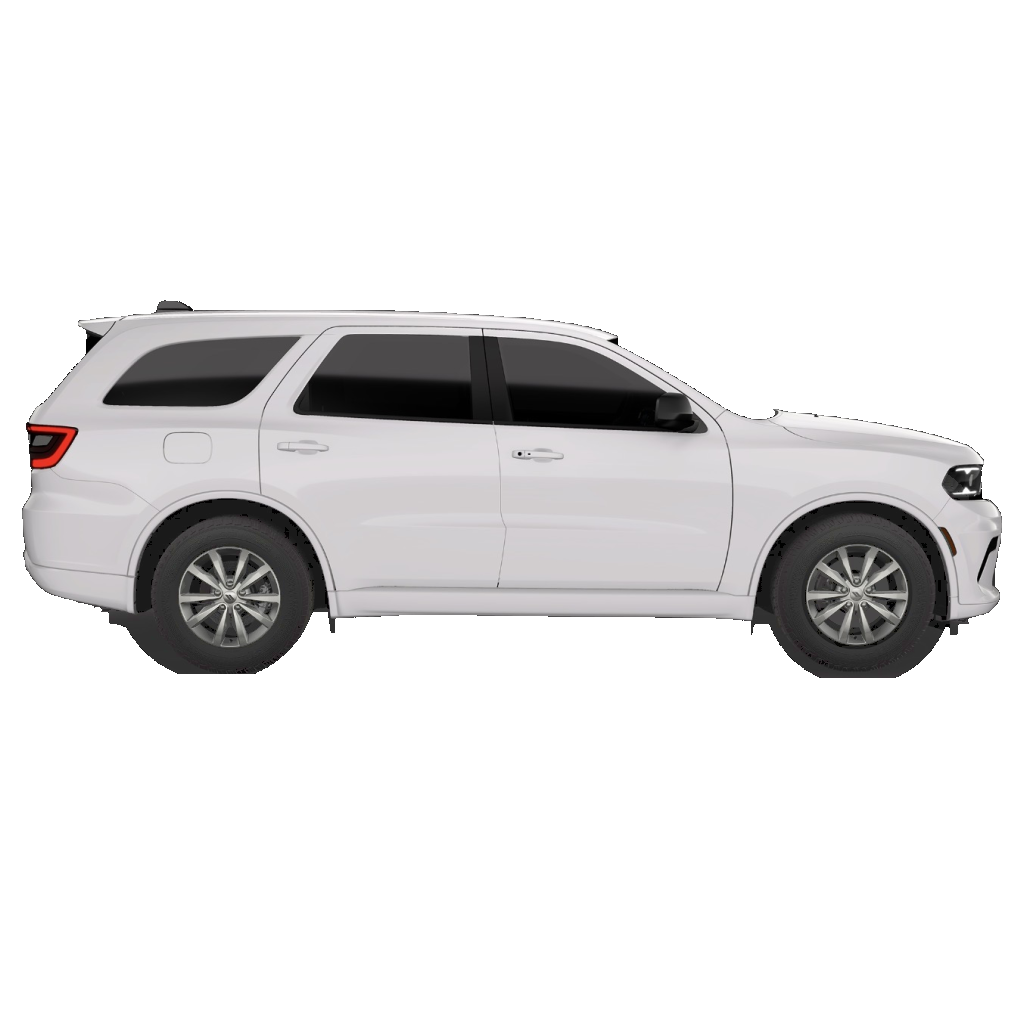
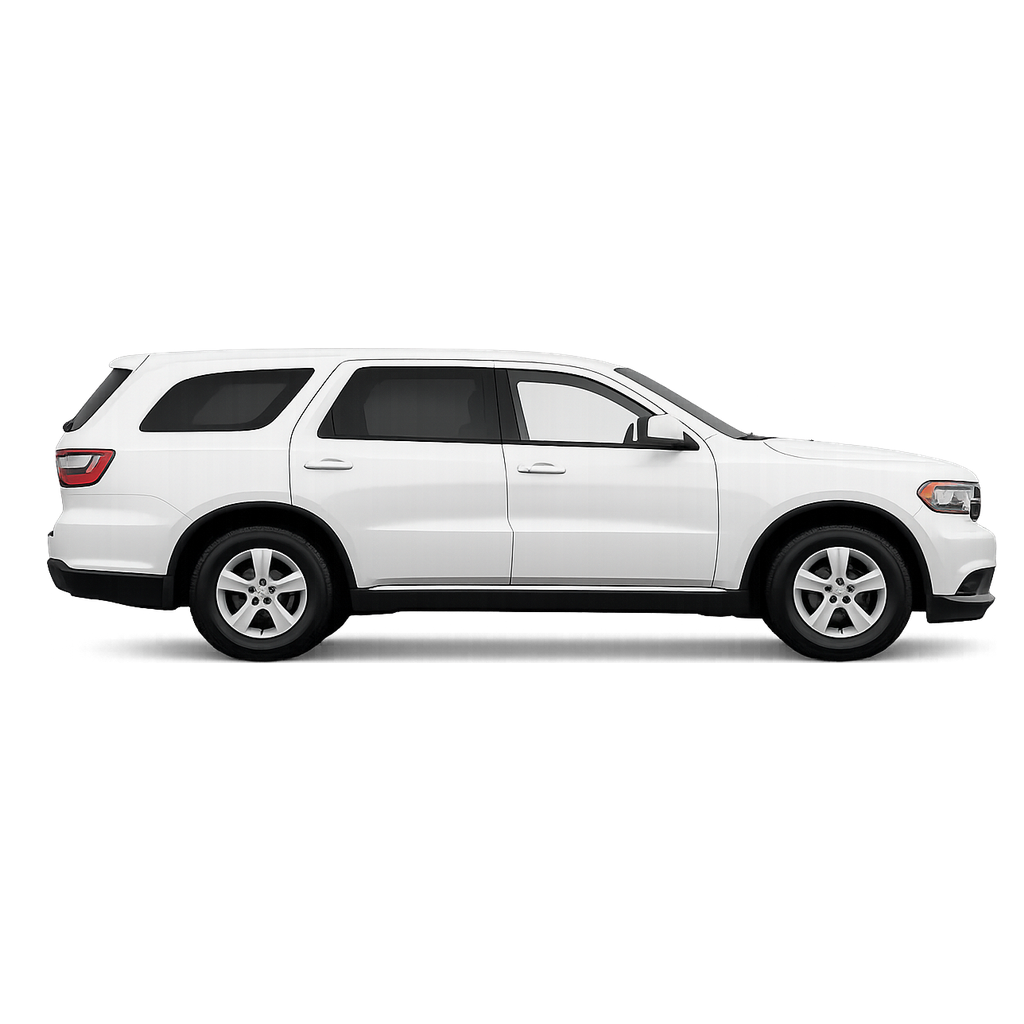
Copy signed-off Durango Right and Rear plates from piu-lighting-visualizer
Overwrite visualizer/durango_right.png (453987) and durango_rear.png (886456)
with exact PNG bytes from 9z2zc74skw-dev/piu-lighting-visualizer @ b95061d.
Hatch Open already matches those bytes (794424). Bump ASSET_V to studio7.
No recut. Left, Front, and hero left untouched.

Changed region(s): [[0.0, 0.2812, 1.0, 0.6875]]

diff --git a/visualizer/index.html b/visualizer/index.html
@@ -200,7 +200,7 @@ select:focus,input[type=text]:focus{box-shadow:0 0 0 2px color-mix(in srgb,var(-
 (function(){
 /* Multi-canvas visualizer. Catalog is shared FedSig SKUs (no invented lights).
    Durango mounts stay as previously signed; trucks have their own snaps. */
-var ASSET_V="studio6";
+var ASSET_V="studio7";
 var FX_V="max4";
 var DURANGO_VIEWS=[
   {id:"front",label:"Front",imgW:"durango_front.png",imgB:"durango_front_black.png"},
